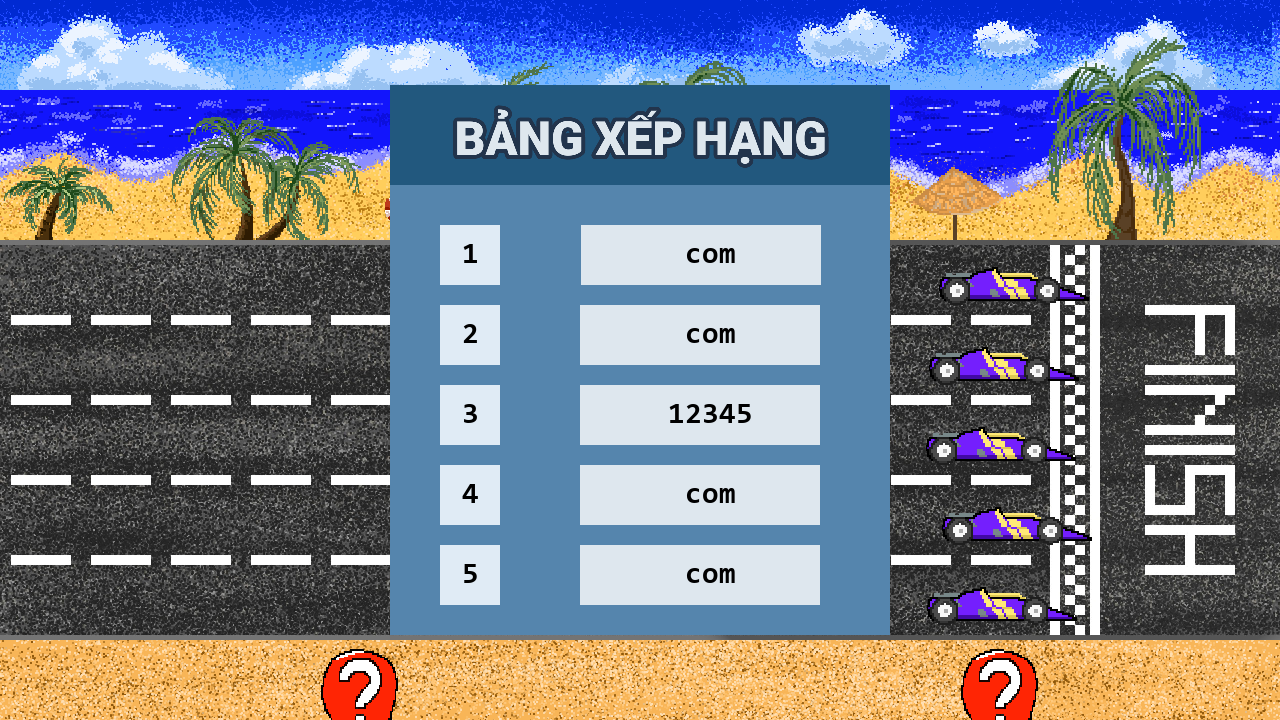
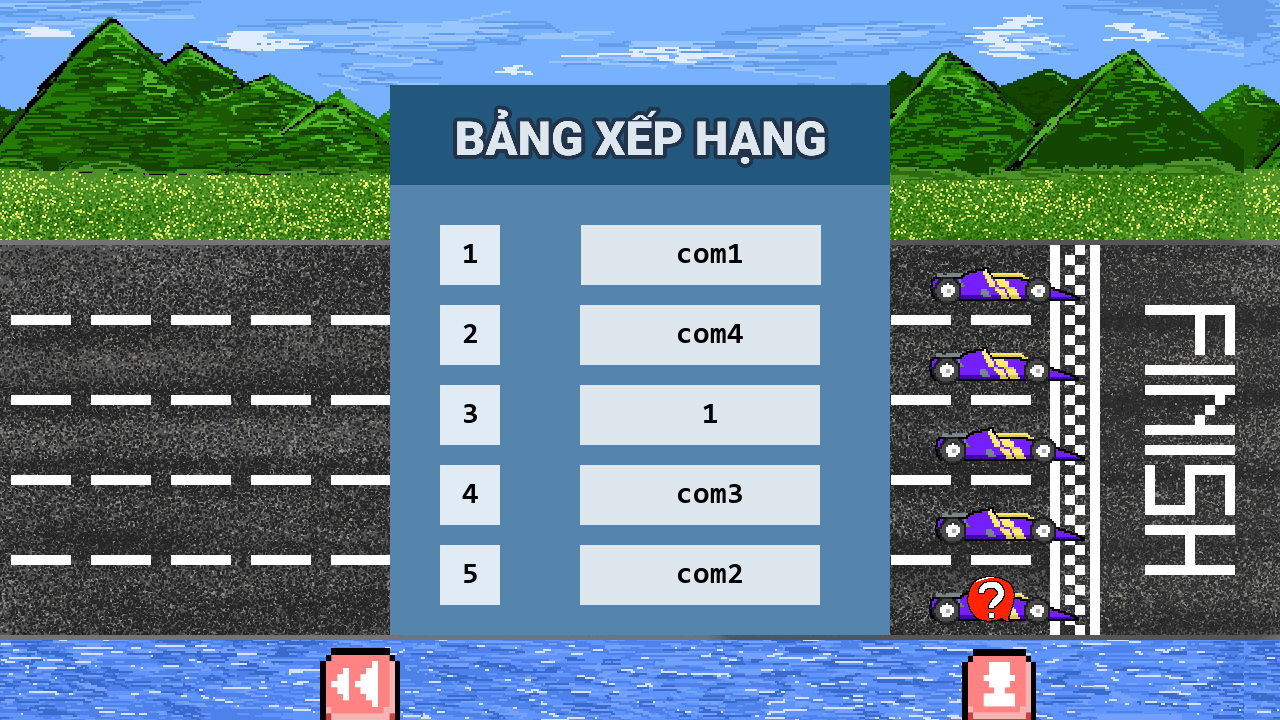
14/12

diff --git a/MainGame/maingame.py b/MainGame/maingame.py
@@ -56,6 +56,8 @@ item_pic=pygame.image.load(r'MainGame\Image\item.jpg')
 start_bt_img=pygame.image.load(r'MainGame\Image\start_bt.jpg')
 buff_start_img=pygame.image.load(r'MainGame\Image\startbuff.jpg')
 buff_start_ed_img=pygame.image.load(r'MainGame\Image\start_buff.jpg')
+buff_gold_img=pygame.image.load(r'MainGame\Image\goldbuff.jpg')
+buff_gold_ed_img=pygame.image.load(r'MainGame\Image\gold_buff.jpg')
 
 #Thêm âm thanh
 flash_sound=pygame.mixer.Sound(r'MainGame\Sound\Effect\flash.mp3')
@@ -75,7 +77,7 @@ new_font = pygame.font.SysFont("Consolas", 30, bold=True, italic=False)
 ms_font=pygame.font.SysFont("Consolas", 20, bold=True, italic=False)
 name_font=pygame.font.SysFont("Consolas", 30, bold=False, italic=False)
 history_font=pygame.font.SysFont("Consolas", 20, bold=False, italic=False)
-
+time_font=pygame.font.SysFont("Consolas", 200, bold=False, italic=False)
 #Hàm
 #Vẽ chữ
 def draw_text(text, font, color, surface, x, y):
@@ -107,22 +109,30 @@ class User():
         if index < len(self.file_list):
             name = self.file_list[index][:-4]
         return name
-    def money_update(self,player):
+    def money_update(self,player,buff_gold):
         if player.rank == 1:
-            self.money += 5000
+            if buff_gold:
+                self.money += 10000
+            else:
+                self.money += 5000
         if player.rank == 2:
-            self.money += 2000
+            if buff_gold:
+                self.money += 2000
+            else:
+                self.money += 1000
         else:
-            self.money -= 1000
+            if buff_gold:
+                self.money-=4000
+            else:
+                self.money -= 2000
     def money_change(self,dif):
         self.money+=dif
 class Car():
     name=''
     color=(0,0,0)
-    def __init__(self,screen,image,lane,buff_speed=False,better_start=False):
+    def __init__(self,screen,image,lane,better_start=False):
         self.image=image
         self.y=280+(lane-1)*80
-        self.buff_speed=buff_speed
         self.better_start=better_start
         self.screen=screen
     def draw(self,x,rank):
@@ -333,29 +343,28 @@ def snakeGame(gameSurface):
 
 
 #Vào đua
-def run_game(map_index,player_pic,com1_pic,com2_pic,com3_pic,com4_pic,buff_speed,better_start,user,player_name,screen):
+def run_game(map_index,skill,player_pic,com1_pic,com2_pic,com3_pic,com4_pic,buff_gold,better_start,user,player_name,screen):
     #Phát âm thanh
     pygame.mixer.Channel(3).play(car_sound,-1)
     #Khởi tạo xe 
-    player=Car(screen,player_pic,2,buff_speed,better_start)
+    player=Car(screen,player_pic,3,better_start)
     com1=Car(screen,com1_pic,1)
-    com2=Car(screen,com2_pic,3)
+    com2=Car(screen,com2_pic,2)
     com3=Car(screen,com3_pic,4)
     com4=Car(screen,com4_pic,5)
 
     #Set tên
     player.name = player_name
-    com1.name = 'com'
-    com2.name ='com'
-    com3.name ='com'
-    com4.name ='com'
+    com1.name = 'com1'
+    com2.name ='com2'
+    com3.name ='com3'
+    com4.name ='com4'
     
     #Map
     bg=maps[map_index]
     
     #Khởi tạo biến item
     item1=Item()
-    item2=Item()
     enough_item=False
     num_item=0
     #Các tham số
@@ -363,11 +372,6 @@ def run_game(map_index,player_pic,com1_pic,com2_pic,com3_pic,com4_pic,buff_speed
         player_x=start_bg+100
     else:
         player_x=start_bg
-    if player.buff_speed:
-        max_speed=25
-    else:
-        max_speed=20
-    max_com=20
     com1_x=start_bg
     com2_x=start_bg
     com3_x=start_bg
@@ -391,6 +395,8 @@ def run_game(map_index,player_pic,com1_pic,com2_pic,com3_pic,com4_pic,buff_speed
 
     #Vòng lặp game
     start=False
+    start_time=False
+    time=360
     while running:
         fpsClock.tick(FPS)
         for event in pygame.event.get():
@@ -398,7 +404,13 @@ def run_game(map_index,player_pic,com1_pic,com2_pic,com3_pic,com4_pic,buff_speed
                 pygame.quit()
                 sys.exit()
             if event.type==pygame.MOUSEBUTTONDOWN:
+                start_time=True
+        if start_time:
+            time-=1
+            if time==0:
                 start=True
+                start_time=False
+    
         #Vẽ background
         screen.blit(bg,(bg_x,0))
         screen.blit(bg,(bg_x+1280,0))
@@ -406,12 +418,12 @@ def run_game(map_index,player_pic,com1_pic,com2_pic,com3_pic,com4_pic,buff_speed
         if road_time==0:
             screen.blit(start_road,(road_x,240))
             screen.blit(road,(road_x+1280,240))
-        elif road_time>=10:
+        elif road_time>=20:
             screen.blit(finish_road,(road_x,240))
         else:
             screen.blit(road,(road_x,240))
             screen.blit(road,(road_x+1280,240))
-        road_speed=5
+        road_speed=20
 
         #Vẽ xe
         player.draw(player_x,player_rank)
@@ -427,9 +439,9 @@ def run_game(map_index,player_pic,com1_pic,com2_pic,com3_pic,com4_pic,buff_speed
                 if road_x<-1280:
                     road_x=0
                     road_time+=1
-                if road_time==10:
+                if road_time==20:
                     road_finish=True
-                bg_x-=1
+                bg_x-=2
                 if bg_x<-1280:
                     bg_x=0
             else:
@@ -450,23 +462,23 @@ def run_game(map_index,player_pic,com1_pic,com2_pic,com3_pic,com4_pic,buff_speed
             #Nếu đường đã chạy hết, cho xe dùng ở đích
             if road_finish:
                 if not(player.finish()):
-                    player_x+=random.randint(0,max_speed)
+                    player_x+=random.randint(0,20)
                     if player_x>1100:
                         player_x=1100
                 if not(com1.finish()):
-                    com1_x+=random.randint(0,max_com)
+                    com1_x+=random.randint(0,20)
                     if com1_x>1100:
                         com1_x=1100
                 if not(com2.finish()):
-                    com2_x+=random.randint(0,max_com)
+                    com2_x+=random.randint(0,20)
                     if com2_x>1100:
                         com2_x=1100
                 if not(com3.finish()):
-                    com3_x+=random.randint(0,max_com)
+                    com3_x+=random.randint(0,20)
                     if com3_x>1100:
                         com3_x=1100
                 if not(com4.finish()):
-                    com4_x+=random.randint(0,max_com)
+                    com4_x+=random.randint(0,20)
                     if com4_x>1100:
                         com4_x=1100
             
@@ -512,44 +524,7 @@ def run_game(map_index,player_pic,com1_pic,com2_pic,com3_pic,com4_pic,buff_speed
                         num_item-=1
                         item1.exist=False
                 
-                #Tương tự với item 2
-                if not(item2.exist):
-                    lane_item2=random.randint(1,5)
-                    item2_y=280+(lane_item2-1)*80
-                    item2_x=random.randint(600,1000)
-                    if item2_x<end_bg and item2_y!=item1_y:
-                        item2.exist=True
-                        num_item+=1
-                if item2.exist:
-                    item2.draw(item2_x,item2_y,screen)
-                    item2_x-=road_speed
-                    if item2_x<0:
-                        item2.exist=False
-                        num_item-=1
-
-                    if player.is_in(item2_x-50,item2_y):
-                        player_x=item2.affect(player_x)
-                        num_item-=1
-                        item2.exist=False
-                    if com1.is_in(item2_x-50,item2_y):
-                        com1_x=item2.affect(com1_x)
-                        num_item-=1
-                        item2.exist=False
-                    if com2.is_in(item2_x-50,item2_y):
-                        com2_x=item2.affect(com2_x)
-                        num_item-=1
-                        item2.exist=False
-                    if com3.is_in(item2_x-50,item2_y):
-                        com3_x=item2.affect(com3_x)
-                        num_item-=1
-                        item2.exist=False
-                    if com4.is_in(item2_x-50,item2_y):
-                        com4_x=item2.affect(com4_x)
-                        num_item-=1
-                        item2.exist=False
-                
-                #Nếu đã đủ 2 item -> không thêm item nữa
-                if num_item>2:
+                if num_item>1:
                     enough_item=True
                 else:
                     enough_item=False
@@ -577,22 +552,31 @@ def run_game(map_index,player_pic,com1_pic,com2_pic,com3_pic,com4_pic,buff_speed
                 ranked=True
             # bảng xếp hạng
         if ranked:
+            user.money_update(player,buff_gold)
             check_rank = ranked_rs(r'MainGame\Image\bxh.jpg',screen_size[0]/2,4*screen_size[1]/5,player,com1,com2,com3,com4,user,screen)
-
+        #Vẽ thời gian
+        if start_time and time>=240:
+                draw_text("3",time_font,red,screen,screen_size[0]/2,screen_size[1]/2)
+        elif start_time and time>=120:
+                draw_text("2",time_font,(255,253,85),screen,screen_size[0]/2,screen_size[1]/2)
+        elif start_time and time>0:
+                draw_text("1",time_font,(0,255,0),screen,screen_size[0]/2,screen_size[1]/2)
         pygame.display.update()
         
         #thoát ra menu
         if check_rank ==False:
             break
     return player_rank
-def shopping(screen,user,buff_speed,buff_start):
+def shopping(screen,user,buff_gold,buff_start):
     #Khởi tạo nút
-    buy_buff_speed=Buttons(200,100,item_pic,340,360,screen)
+    buy_buff_gold=Buttons(200,100,buff_gold_img,340,360,screen)
     buy_better_start=Buttons(200,100,buff_start_img,740,360,screen)
     quit_bt=Buttons(200,100,return_bt_img,540,570,screen)
+    time=0
     #Vòng lặp
     running_shop=True
     while running_shop:
+        fpsClock.tick(FPS)
         spot = pygame.mouse.get_pos()
         for event in pygame.event.get():
             if event.type==pygame.QUIT:
@@ -602,22 +586,28 @@ def shopping(screen,user,buff_speed,buff_start):
                 new_screen_size = event.dict["size"]
                 screen_resize(new_screen_size)
             if event.type==pygame.MOUSEBUTTONDOWN:
-                if buy_buff_speed.is_in(spot[0],spot[1]):
+                if buy_buff_gold.is_in(spot[0],spot[1]):
                     pygame.mouse.set_cursor(SYSTEM_CURSOR_ARROW)
-                    if not(buff_speed):
-                        user.money_change(-2000)
-                    buff_speed=True
-                    buy_buff_speed.img=item_pic
+                    if not(buff_gold):
+                        if user.money>=2000:
+                            user.money_change(-2000)
+                            buff_gold=True
+                        else:
+                            draw_text("Bạn không đủ vàng!",ms_font,white,screen,screen_size[0]/2,screen_size[1]/2)
+                            time=240
                 if buy_better_start.is_in(spot[0],spot[1]):
                     pygame.mouse.set_cursor(SYSTEM_CURSOR_ARROW)
                     if not(buff_start):
-                        user.money_change(-2000)
-                    buff_start=True
-                    buy_better_start.img=item_pic
+                        if user.money>=2000:
+                            user.money_change(-2000)
+                            buff_start=True
+                        else:
+                            draw_text("Bạn không đủ vàng!",ms_font,white,screen,screen_size[0]/2,screen_size[1]/2)
+                            time=240
                 if quit_bt.is_in(spot[0],spot[1]):
                     pygame.mouse.set_cursor(SYSTEM_CURSOR_ARROW)
                     running_shop=False
-            if buy_buff_speed.is_in(spot[0],spot[1]):
+            if buy_buff_gold.is_in(spot[0],spot[1]):
                 pygame.mouse.set_cursor(SYSTEM_CURSOR_HAND)
             elif buy_better_start.is_in(spot[0],spot[1]):
                 pygame.mouse.set_cursor(SYSTEM_CURSOR_HAND)
@@ -625,16 +615,19 @@ def shopping(screen,user,buff_speed,buff_start):
                 pygame.mouse.set_cursor(SYSTEM_CURSOR_HAND)
             else:
                 pygame.mouse.set_cursor(SYSTEM_CURSOR_ARROW)
-        if buff_speed:
-            buy_buff_speed.img=car_pic1
+        if buff_gold:
+            buy_buff_gold.img=pygame.transform.scale(buff_gold_ed_img,(200,100))
         if buff_start:
             buy_better_start.img=pygame.transform.scale(buff_start_ed_img,(200,100))
-        screen.blit(bg,(0,0))
-        buy_better_start.draw()
-        buy_buff_speed.draw()
-        quit_bt.draw()
+        if time<=0:
+            screen.blit(bg,(0,0))
+            buy_better_start.draw()
+            buy_buff_gold.draw()
+            quit_bt.draw()
+        else:
+            time-=1
         pygame.display.update()
-    return (buff_speed,buff_start)
+    return (buff_gold,buff_start)
 
 def set_name(screen):
     sname=""
@@ -642,7 +635,7 @@ def set_name(screen):
     name=True
     type_name =False
     name_gap = Buttons(19*screen_size[0]/40,screen_size[1]/12,item_pic,screen_size[0]/4,screen_size[1]/4,screen)
-    accept_bt = Buttons(screen_size[1]/12,screen_size[1]/12,item_pic,29*screen_size[0]/40,screen_size[1]/4,screen)
+    accept_bt = Buttons(screen_size[1]/12,screen_size[1]/12,next_ms_bt_img,29*screen_size[0]/40,screen_size[1]/4,screen)
     while name:
         count +=1
         if (count // 150) % 2 == 0:
@@ -695,9 +688,11 @@ def set_name(screen):
 
 
 def pick_map(buff_speed,buff_start,current_user,player_name,char,screen):
-    pick_bt=Buttons(200,100,item_pic,540,570,screen)
-    next_bt=Buttons(100,100,item_pic,980,340,screen)
-    back_bt=Buttons(100,100,item_pic,200,340,screen)
+    pick_bt=Buttons(200,100,start_bt_img,540,570,screen)
+    next_bt=Buttons(100,100,next_ms_bt_img,980,340,screen)
+    back_bt=Buttons(100,100,back_ms_bt_img,200,340,screen)
+    skill=(char - char%5)/5
+    avt=(char % 5)
     index=0
     run_map=True
     while run_map:
@@ -714,7 +709,7 @@ def pick_map(buff_speed,buff_start,current_user,player_name,char,screen):
                 if pick_bt.is_in(spot[0],spot[1]):
                     pygame.mouse.set_cursor(SYSTEM_CURSOR_ARROW)
                     run_map=False
-                    run_game(index,car_pic2,car_pic2,car_pic2,car_pic2,car_pic2,buff_speed,buff_start,current_user,player_name,screen)
+                    run_game(index,skill,car_pic2,car_pic2,car_pic2,car_pic2,car_pic2,buff_speed,buff_start,current_user,player_name,screen)
                 #Chuyển map muốn chọn
                 if next_bt.is_in(spot[0],spot[1]):
                     index+=1
@@ -1015,8 +1010,7 @@ def ranked_rs(image,width,height,player,com1,com2,com3,com4,user,screen):
     home_bt = Buttons(screen_size[0]/16,screen_size[1]/8,return_bt_img,screen_size[0]/4,9*screen_size[1]/10,screen)
     save_bt = Buttons(screen_size[0]/16,screen_size[1]/8,save_bt_img,3*screen_size[0]/4,9*screen_size[1]/10,screen)
     lt = [player,com1,com2,com3,com4]
-    #Cập nhật tiền 
-    user.money_update(player)
+
     # sắp xếp thứ tự xếp hạng
     j=0
     while j < len(lt):
